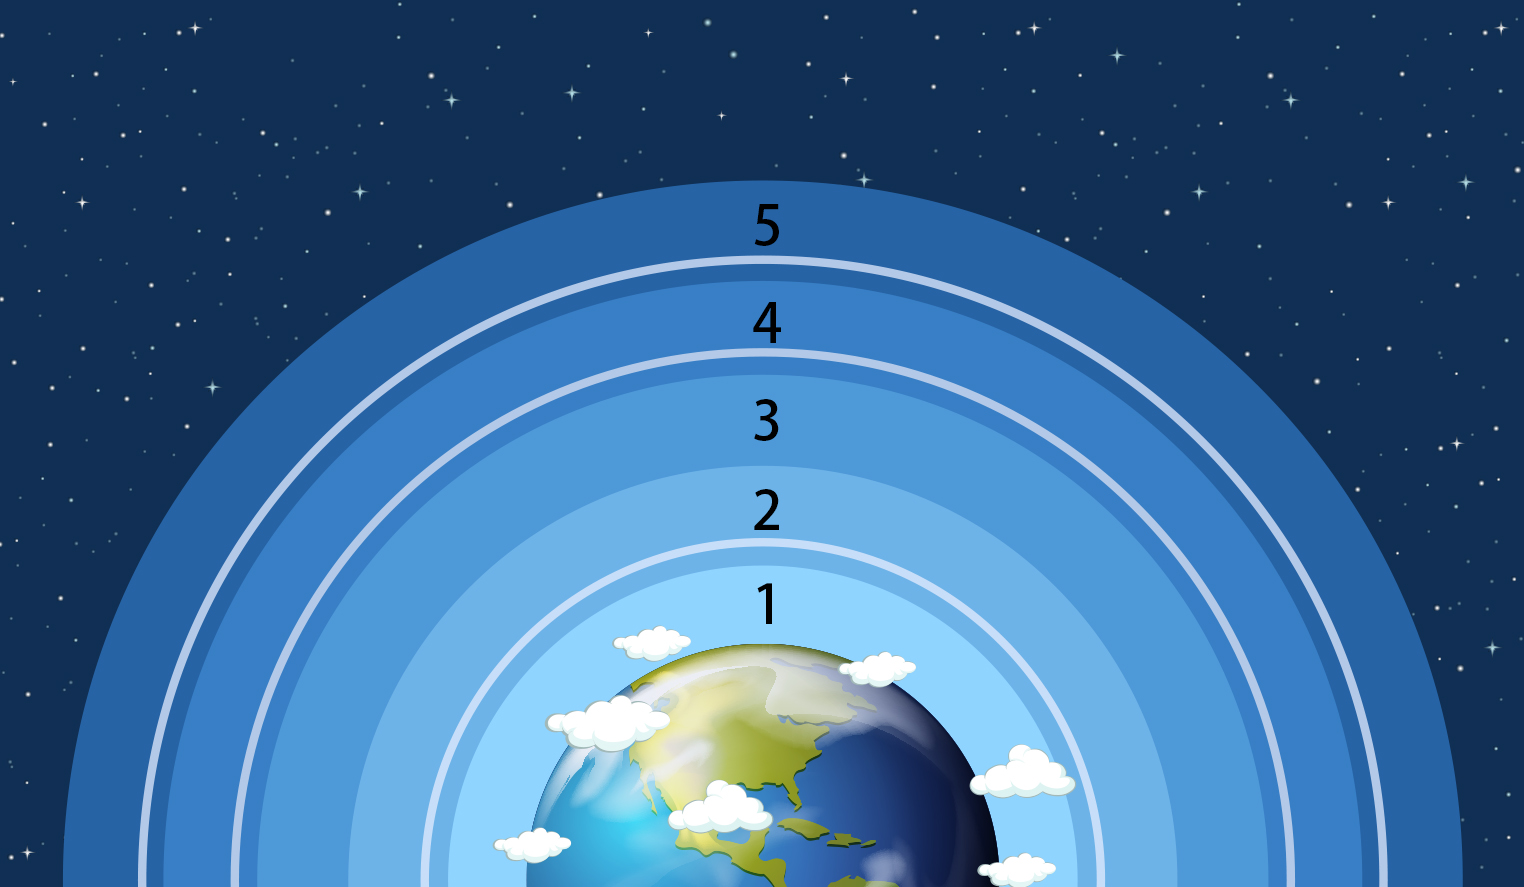
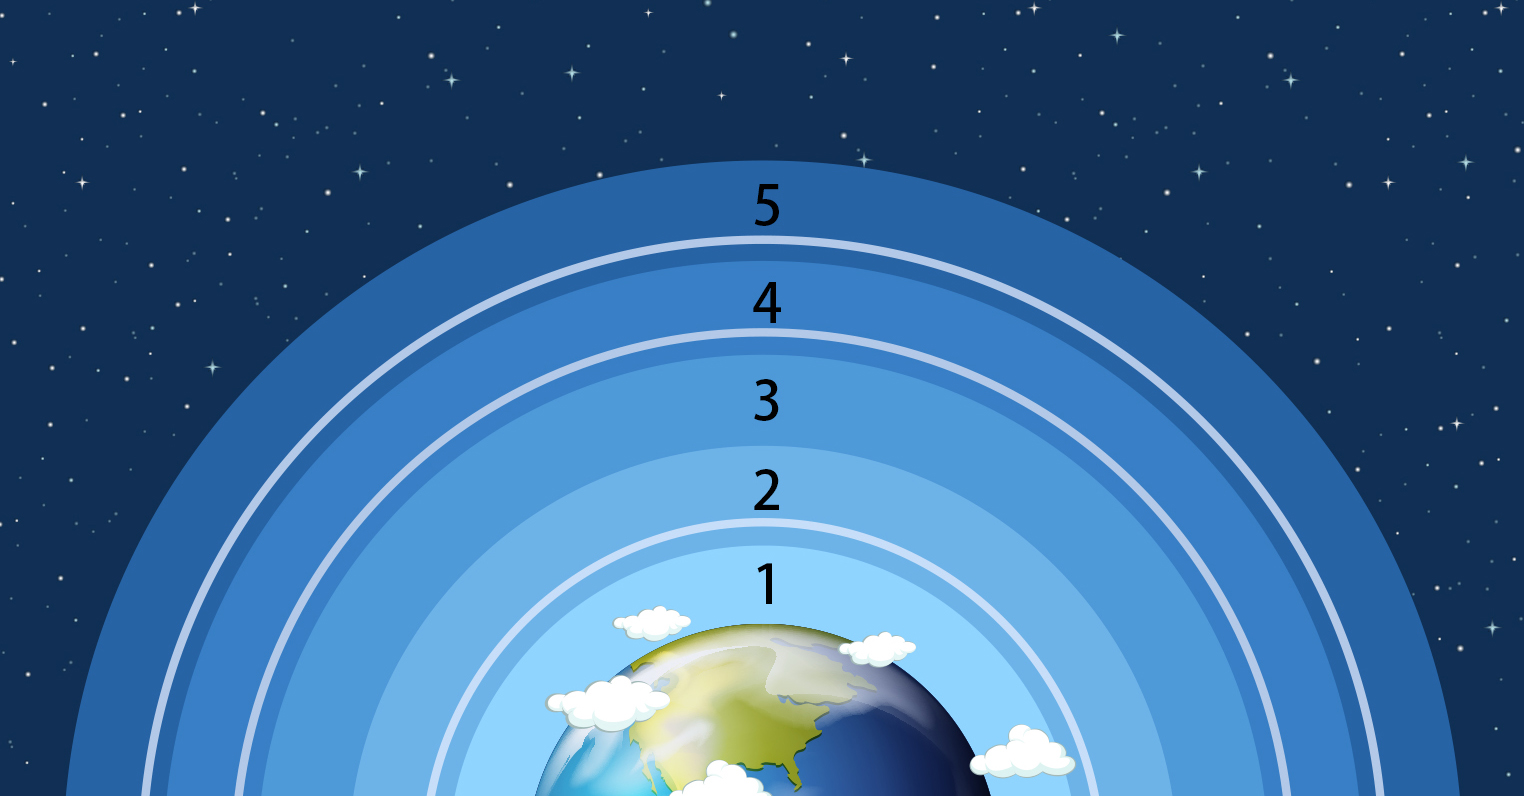
fixing

diff --git a/questions/solarsystem.html b/questions/solarsystem.html
@@ -13,6 +13,8 @@
     <link rel="stylesheet" href="../assets/css/font.css">
     <link rel="stylesheet" href="../assets/css/animate.css">
     <link rel="stylesheet" href="../assets/css/all.css">
+
+    <link rel="icon" type="image/png" href="../assets/img/favicon.png">
 </head>
 <body class="solar-system">
     

diff --git a/questions/armosfer.html b/questions/armosfer.html
@@ -13,6 +13,8 @@
     <link rel="stylesheet" href="../assets/css/font.css">
     <link rel="stylesheet" href="../assets/css/animate.css">
     <link rel="stylesheet" href="../assets/css/all.css">
+
+    <link rel="icon" type="image/png" href="../assets/img/favicon.png">
 </head>
 <body class="atmosfer">
     

diff --git a/questions/soil.html b/questions/soil.html
@@ -13,6 +13,8 @@
     <link rel="stylesheet" href="../assets/css/font.css">
     <link rel="stylesheet" href="../assets/css/animate.css">
     <link rel="stylesheet" href="../assets/css/all.css">
+
+    <link rel="icon" type="image/png" href="../assets/img/favicon.png">
 </head>
 <body class="soil">
     

diff --git a/learn/solarsystem.html b/learn/solarsystem.html
@@ -13,6 +13,8 @@
     <link rel="stylesheet" href="../assets/css/all.css">
     <link rel="stylesheet" href="style.css">
     <link rel="stylesheet" href="../assets/css/style-belajar.css">
+
+    <link rel="icon" type="image/png" href="../assets/img/favicon.png">
     
 </head>
 <body>

diff --git a/score-board.html b/score-board.html
@@ -14,6 +14,8 @@
     <link rel="stylesheet" href="assets/css/font.css">
     <link rel="stylesheet" href="assets/css/animate.css">
     <link rel="stylesheet" href="assets/css/all.css">
+
+    <link rel="icon" type="image/png" href="assets/img/favicon.png">
 </head>
 <body>
     

diff --git a/index.html b/index.html
@@ -14,6 +14,8 @@
     <link rel="stylesheet" href="assets/css/animate.css">
     <link rel="stylesheet" href="assets/css/all.css">
 
+    <link rel="icon" type="image/png" href="assets/img/favicon.png">
+
     <title>Welcome to Abumi</title>
   </head>
   <body>

diff --git a/learn.html b/learn.html
@@ -14,6 +14,8 @@
     <link rel="stylesheet" href="assets/css/animate.css">
     <link rel="stylesheet" href="assets/css/all.css">
 
+    <link rel="icon" type="image/png" href="assets/img/favicon.png">
+
     <title>Learn | Abumi</title>
   </head>
   <body>

diff --git a/learn/atmosfer.html b/learn/atmosfer.html
@@ -14,6 +14,8 @@
     <link rel="stylesheet" href="style.css">
     <link rel="stylesheet" href="../assets/css/style-belajar.css">
 
+    <link rel="icon" type="image/png" href="../assets/img/favicon.png">
+
 </head>
 <body class="atm-bg">
     

diff --git a/learn/style.css b/learn/style.css
@@ -122,7 +122,7 @@ body {
 body.atm-bg {
     background-image: url('../assets/img/atm-bg.jpg');
     background-size: cover;
-    background-position: 0 -75px;
+    background-position: 0 -50px;
 }
 .atm-info-wrap {
     position: absolute;

diff --git a/learn/soil-layer.html b/learn/soil-layer.html
@@ -14,6 +14,8 @@
     <link rel="stylesheet" href="style.css">
     <link rel="stylesheet" href="../assets/css/style-belajar.css">
 
+    <link rel="icon" type="image/png" href="../assets/img/favicon.png">
+
 </head>
 <body class="soil">
 
